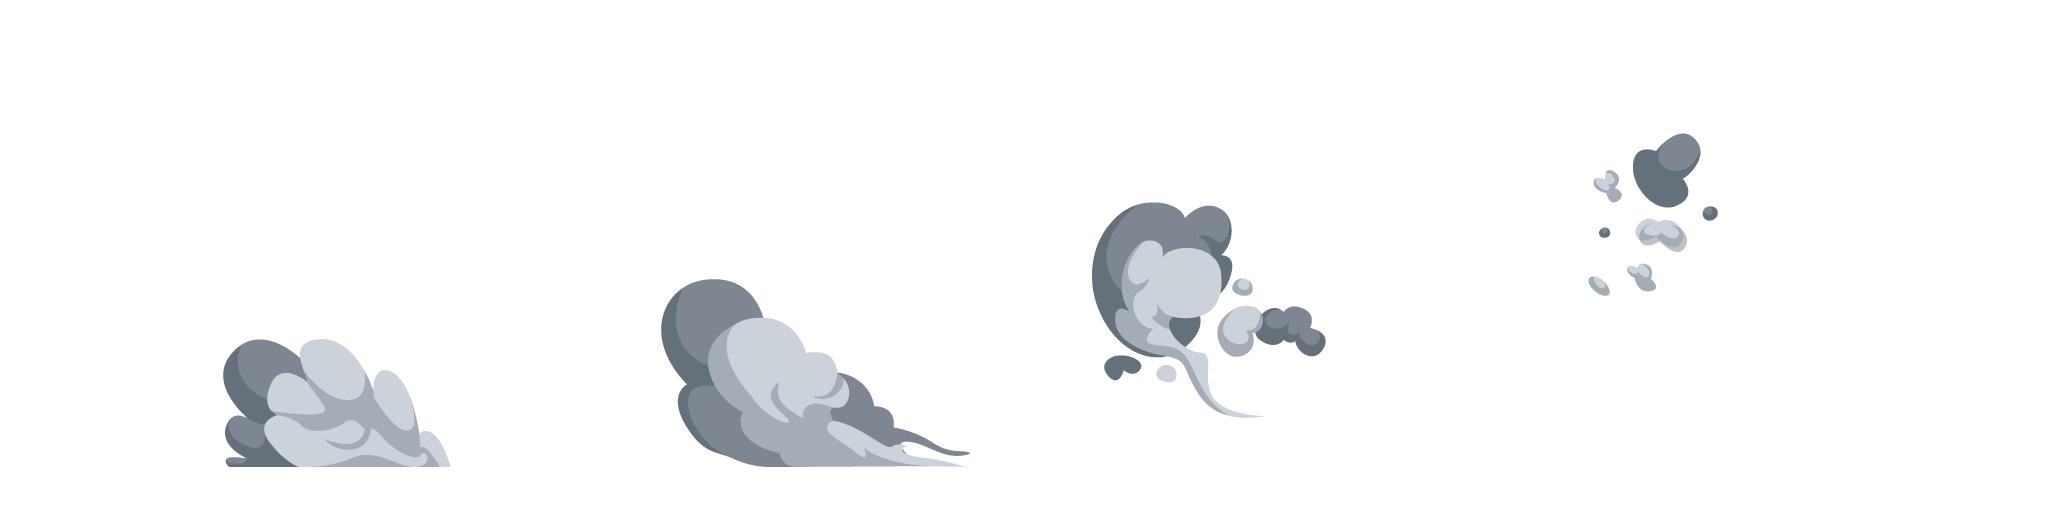
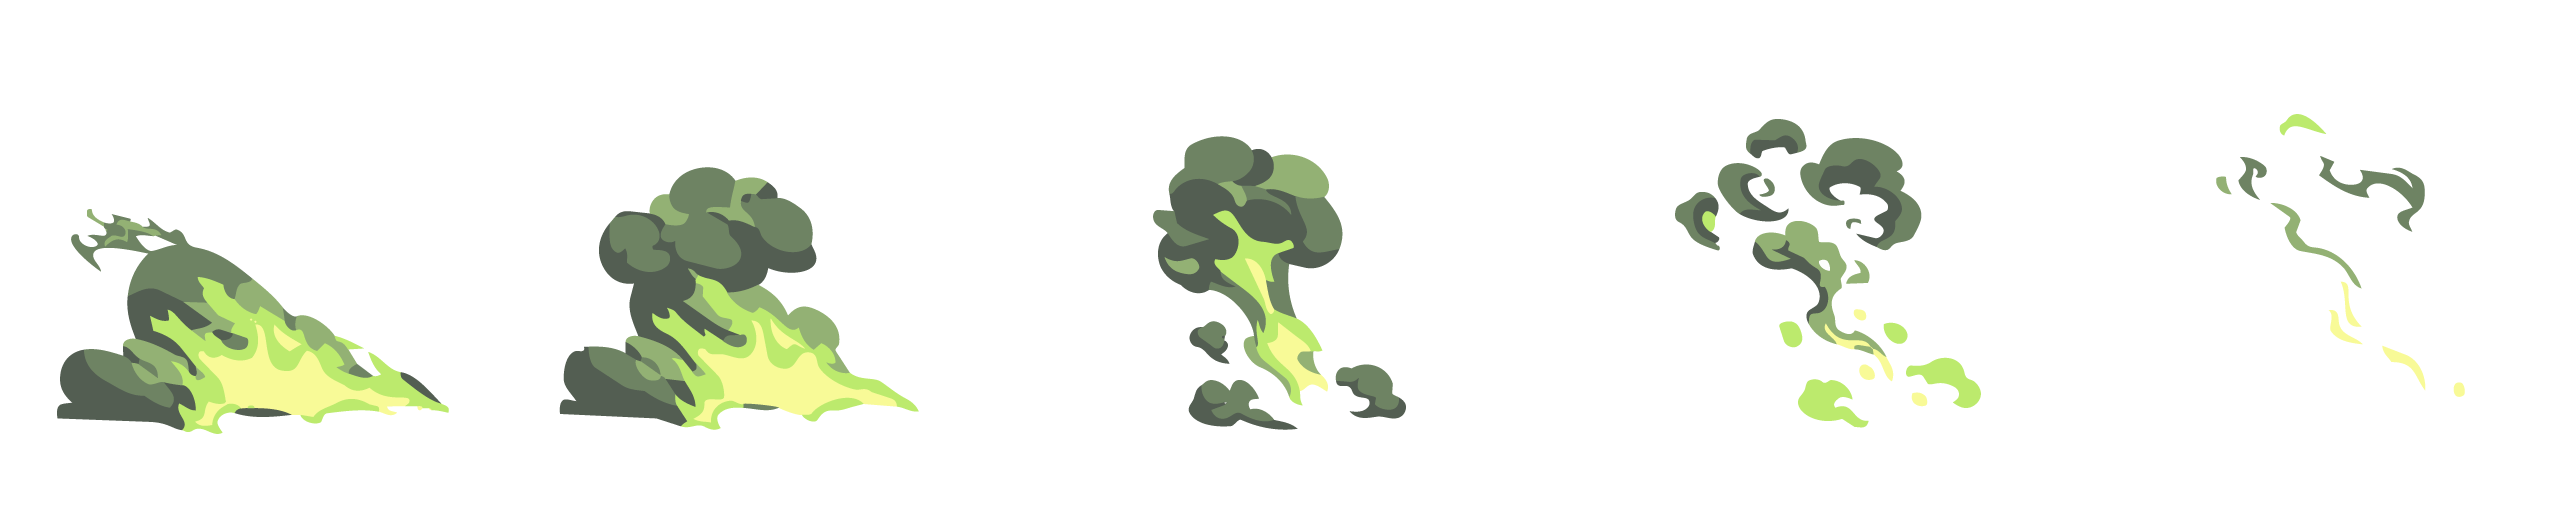
Replace rabbit dust sprites with new 5-frame versions
New artwork has 5 frames (2560x512) vs the old 4 (2048x512). Frame
size unchanged at 512x512. BootScene auto-generates the walk anim
from gameConfig, so bumping the frame count in the spritesheet
tuple is enough — Player keeps the 400ms total duration and just
plays 5 frames in that window.

diff --git a/src/game/game.config.ts b/src/game/game.config.ts
@@ -95,8 +95,8 @@ export const gameConfig = {
     spritesheets: [
       ['rabbit-back', 'character/rabbit-back.png', 512, 512, 3],
       ['rabbit-side', 'character/rabbit-side.png', 512, 512, 3],
-      ['rabbit-dust-fwd', 'character/rabbit-dust-fwd.png', 512, 512, 4],
-      ['rabbit-dust-side', 'character/rabbit-dust-side.png', 512, 512, 4],
+      ['rabbit-dust-fwd', 'character/rabbit-dust-fwd.png', 512, 512, 5],
+      ['rabbit-dust-side', 'character/rabbit-dust-side.png', 512, 512, 5],
     ] as [string, string, number, number, number][],
     svgs: [] as [string, string, number, number][],
     audio: [
